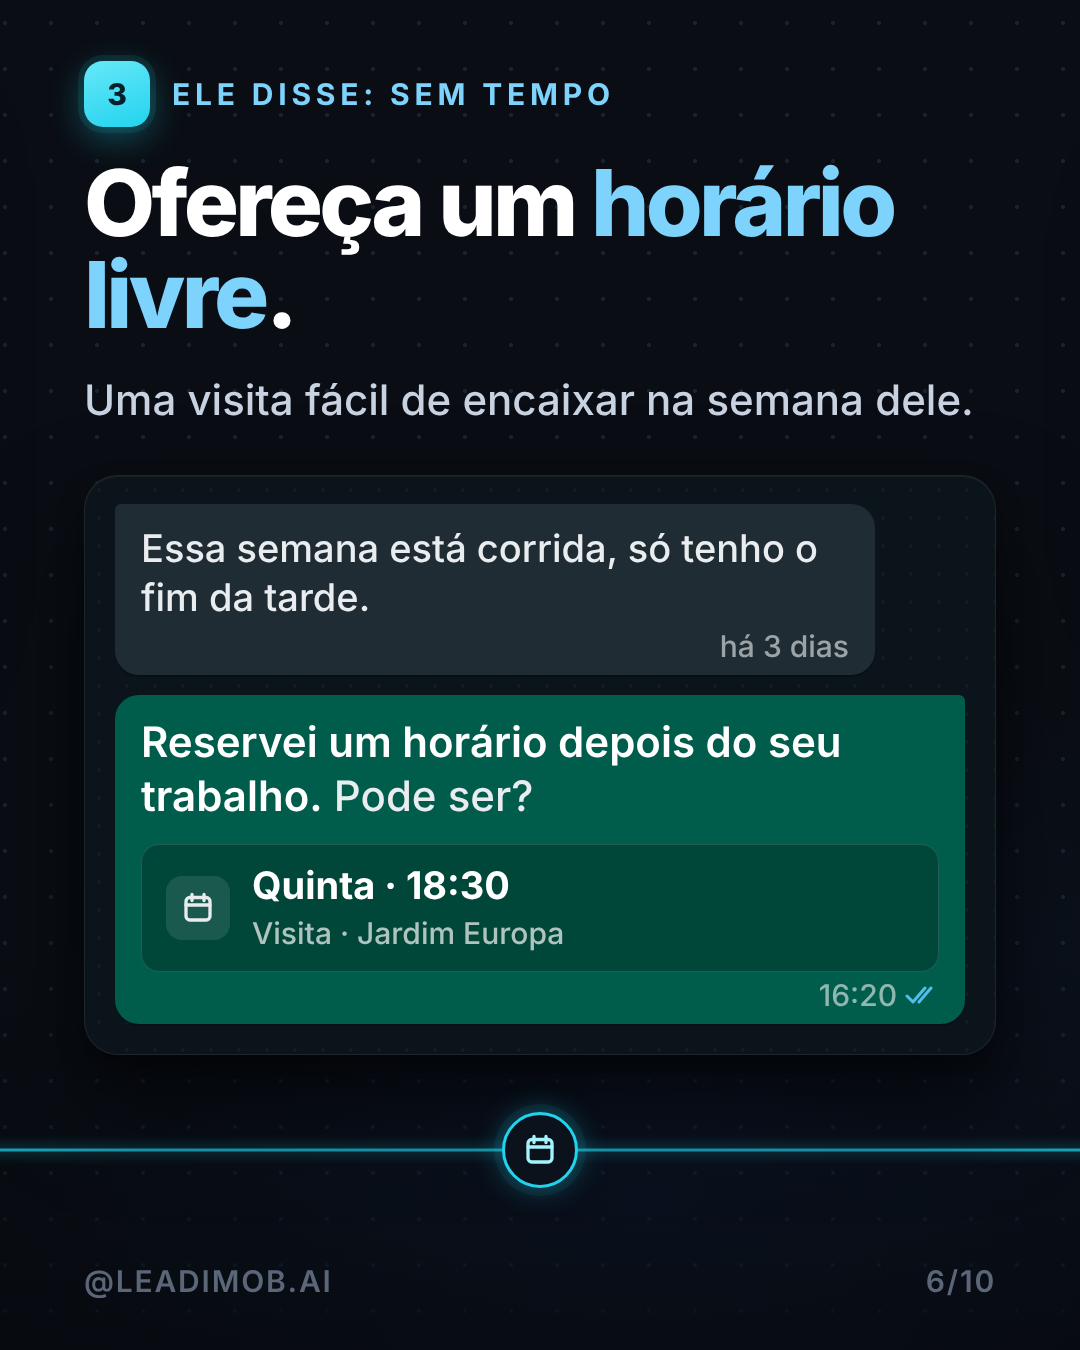
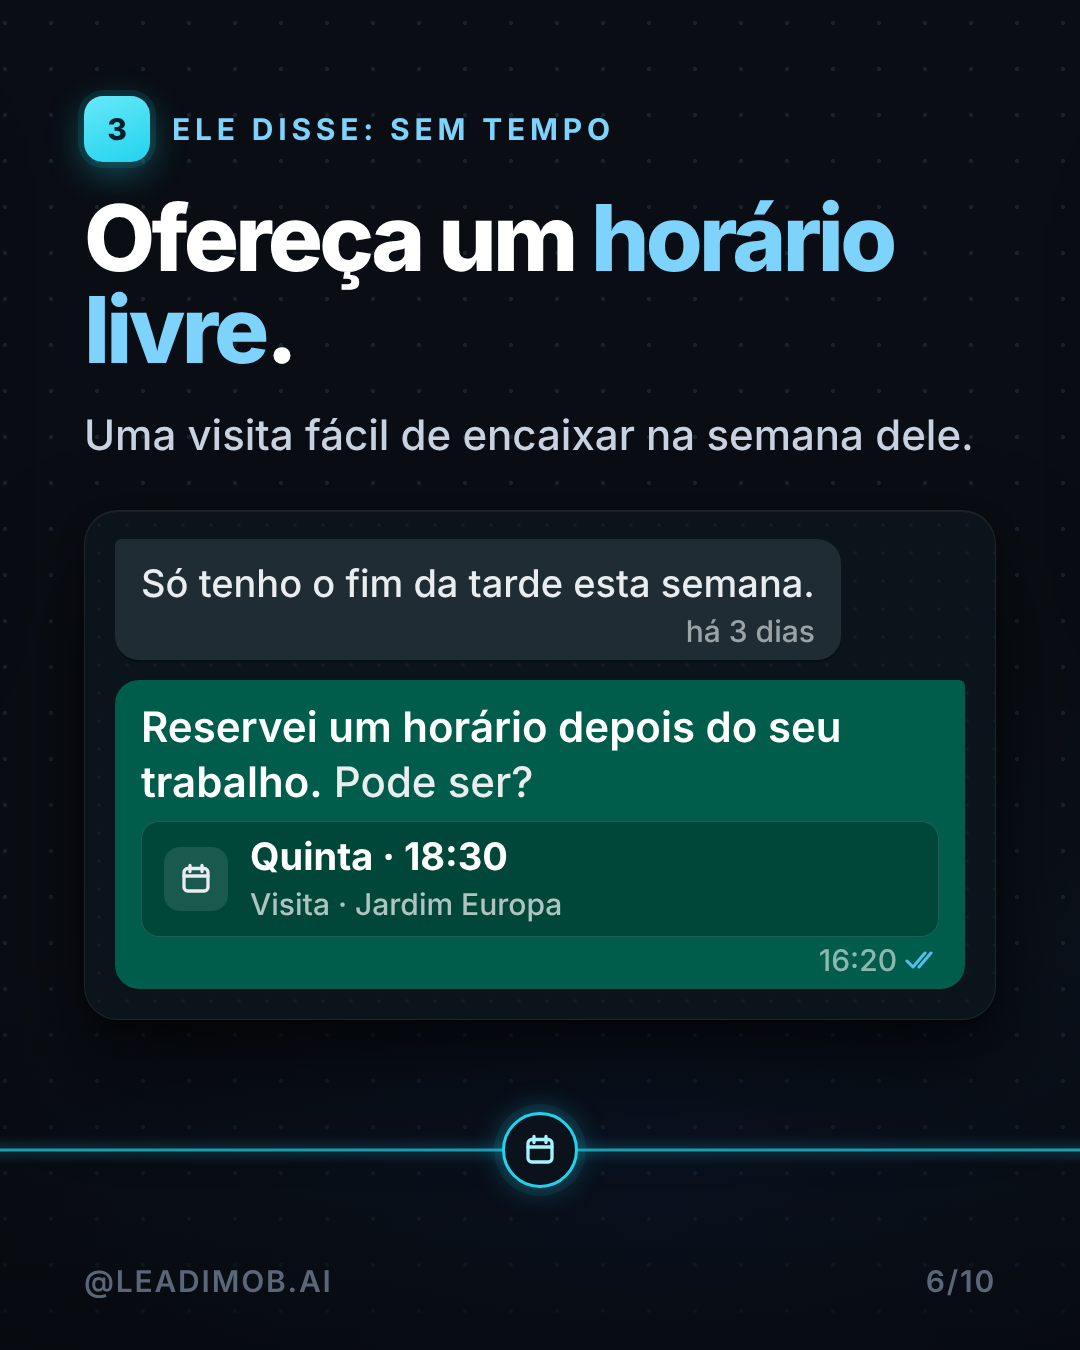
11/10: carrossel slide 6 na margem (em crítica final, sem aprovação)
Claude-Session: https://claude.ai/code/session_0145jJKuZvfRBYxMPxCVaBcw

Changed region(s): [[0.0917, 0.3733, 0.9167, 0.7778], [0.0611, 0.0311, 0.8861, 0.3422]]

diff --git a/instagram/2026-10-11/src/c1-index.html b/instagram/2026-10-11/src/c1-index.html
@@ -79,7 +79,7 @@ body{background:#0A0E14;width:10800px;height:1350px;overflow:hidden;font-family:
 .ann{font:700 30px/1 IN;letter-spacing:.14em;text-transform:uppercase;display:flex;align-items:center;gap:14px}
 .qr{display:flex;gap:16px;margin-top:14px;margin-left:auto;max-width:840px}
 .qr .rb{height:84px;font-size:34px;border-radius:20px}
-.ev{display:flex;align-items:center;gap:22px;margin-top:20px;padding:20px 24px;border-radius:18px;background:rgba(0,0,0,.22);border:1px solid rgba(255,255,255,.12)}
+.ev{display:flex;align-items:center;gap:22px;margin-top:12px;padding:14px 22px;border-radius:18px;background:rgba(0,0,0,.22);border:1px solid rgba(255,255,255,.12)}
 .ev .ci{width:64px;height:64px;border-radius:16px;background:rgba(255,255,255,.1);display:flex;align-items:center;justify-content:center;flex:none}
 .ev b{display:block;font:700 38px/1.1 IN;color:#fff}
 .ev small{display:block;font:500 30px/1.2 IN;color:rgba(233,237,239,.75);margin-top:8px}
@@ -163,7 +163,7 @@ body{background:#0A0E14;width:10800px;height:1350px;overflow:hidden;font-family:
  <div class="h2">Ofereça um <span class='hl'>horário livre</span>.</div>
  <div class="p">Uma visita fácil de encaixar na semana dele.</div>
  <div class="wa conv">
-  <div class="bub bin">Essa semana está corrida, só tenho o fim da tarde.<div class="bt">há 3 dias</div></div>
+  <div class="bub bin">Só tenho o fim da tarde esta semana.<div class="bt">há 3 dias</div></div>
   <div class="bub bout"><span class='mv'>Reservei um horário depois do seu trabalho.</span> Pode ser?<div class='ev'><div class='ci'><svg width="36" height="36" viewBox="0 0 24 24" fill="none" stroke="#E9EDEF" stroke-width="2.2" stroke-linecap="round" stroke-linejoin="round"><rect x="4" y="5" width="16" height="15" rx="2.500"/><path d="M4 10h16M8 3v4M16 3v4"/></svg></div><div><b>Quinta · 18:30</b><small>Visita · Jardim Europa</small></div></div><div class="bt">16:20 <svg class="tk" viewBox="0 0 34 22"><path d="M2 12l6 6L20 4M14 18l12-14" stroke="#53BDEB" stroke-width="3" fill="none" stroke-linecap="round" stroke-linejoin="round"/></svg></div></div>
  </div>
  <div class="foot"><span>@LEADIMOB.AI</span><span>6/10</span></div></div>
